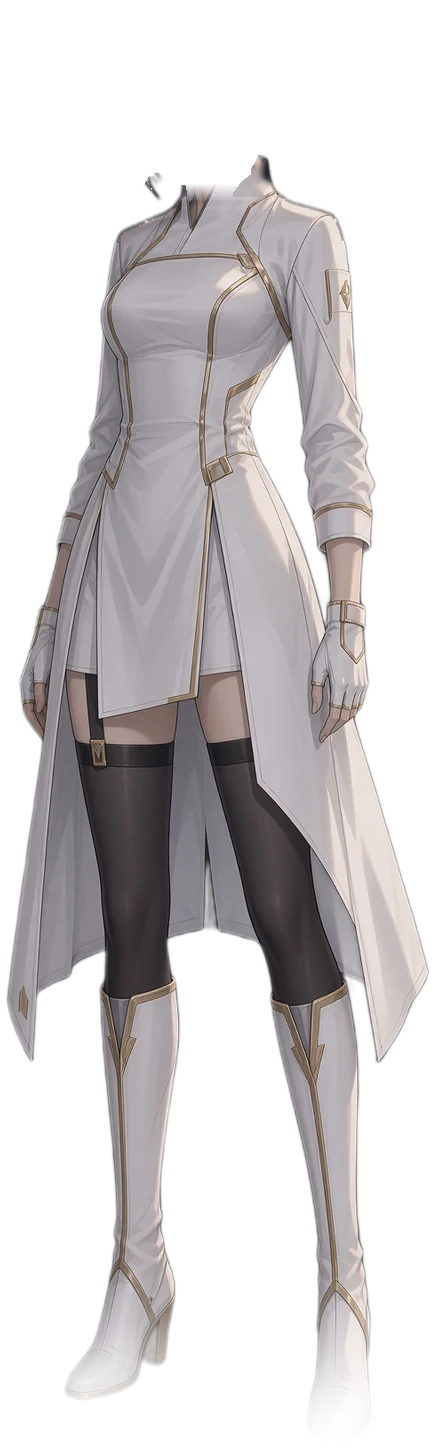
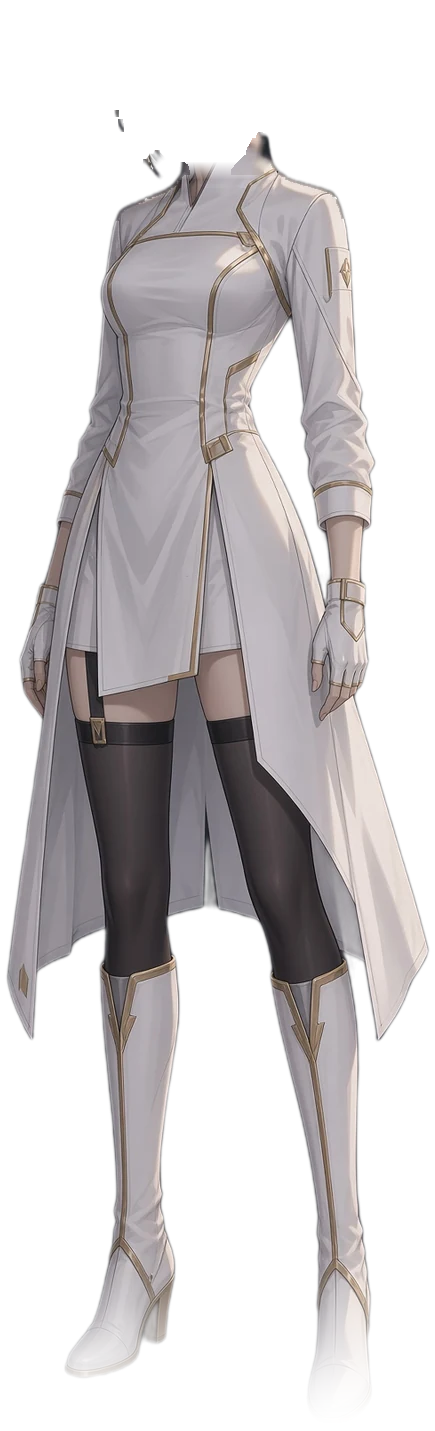
Головы пятерых персонажей уменьшены ещё (Мира 0.8, Соня 0.76, Лео 0.78, Хасс 0.74, Кесслер 0.64)
Claude-Session: https://claude.ai/code/session_01NQp3aBSK82YdHwbRoDiYHY

diff --git a/tools/art/outpaint.py b/tools/art/outpaint.py
@@ -30,19 +30,19 @@ SHRINK = {'voron': dict(hs=0.85, anchor=(420, 800), keep=0.68, fade=0.06,
                         poly=[(0, 0), (900, 0), (900, 330), (720, 520), (640, 640), (590, 730), (560, 800), (560, 900),
                               (300, 900), (250, 800), (200, 760), (110, 600), (0, 520)]),
           # пятеро от Grok: в полный рост голова выглядела крупной (у Евы ≈ 1/7.5 роста) — уменьшаем каждому по-своему
-          'mira': dict(hs=0.9, anchor=(440, 880), keep=0.74, fade=0.06,
+          'mira': dict(hs=0.8, anchor=(440, 880), keep=0.74, fade=0.06,
                        poly=[(0, 0), (900, 0), (900, 620), (800, 700), (720, 800), (610, 870), (570, 930), (330, 930),
                              (300, 870), (230, 800), (120, 720), (0, 690)]),
-          'sonya': dict(hs=0.86, anchor=(500, 850), keep=0.72, fade=0.06,
+          'sonya': dict(hs=0.76, anchor=(500, 850), keep=0.72, fade=0.06,
                         poly=[(0, 0), (900, 0), (900, 760), (800, 820), (680, 860), (600, 900), (410, 900), (380, 830),
                               (300, 740), (150, 660), (0, 620)]),
-          'leo': dict(hs=0.88, anchor=(420, 820), keep=0.69, fade=0.06,
+          'leo': dict(hs=0.78, anchor=(420, 820), keep=0.69, fade=0.06,
                       poly=[(0, 0), (900, 0), (900, 560), (650, 600), (580, 700), (530, 790), (510, 860), (330, 860),
                             (300, 790), (260, 700), (200, 620), (0, 560)]),
-          'hass': dict(hs=0.82, anchor=(450, 840), keep=0.71, fade=0.06,
+          'hass': dict(hs=0.74, anchor=(450, 840), keep=0.71, fade=0.06,
                        poly=[(0, 0), (900, 0), (900, 620), (760, 660), (640, 720), (580, 800), (560, 870), (340, 870),
                              (300, 780), (240, 700), (200, 600), (120, 520), (0, 500)]),
-          'kessler': dict(hs=0.72, anchor=(470, 900), keep=0.74, fade=0.06,
+          'kessler': dict(hs=0.64, anchor=(470, 900), keep=0.74, fade=0.06,
                           poly=[(0, 0), (900, 0), (900, 700), (760, 760), (680, 830), (620, 910), (420, 910), (380, 870),
                                 (250, 860), (100, 830), (0, 800)])}
 
